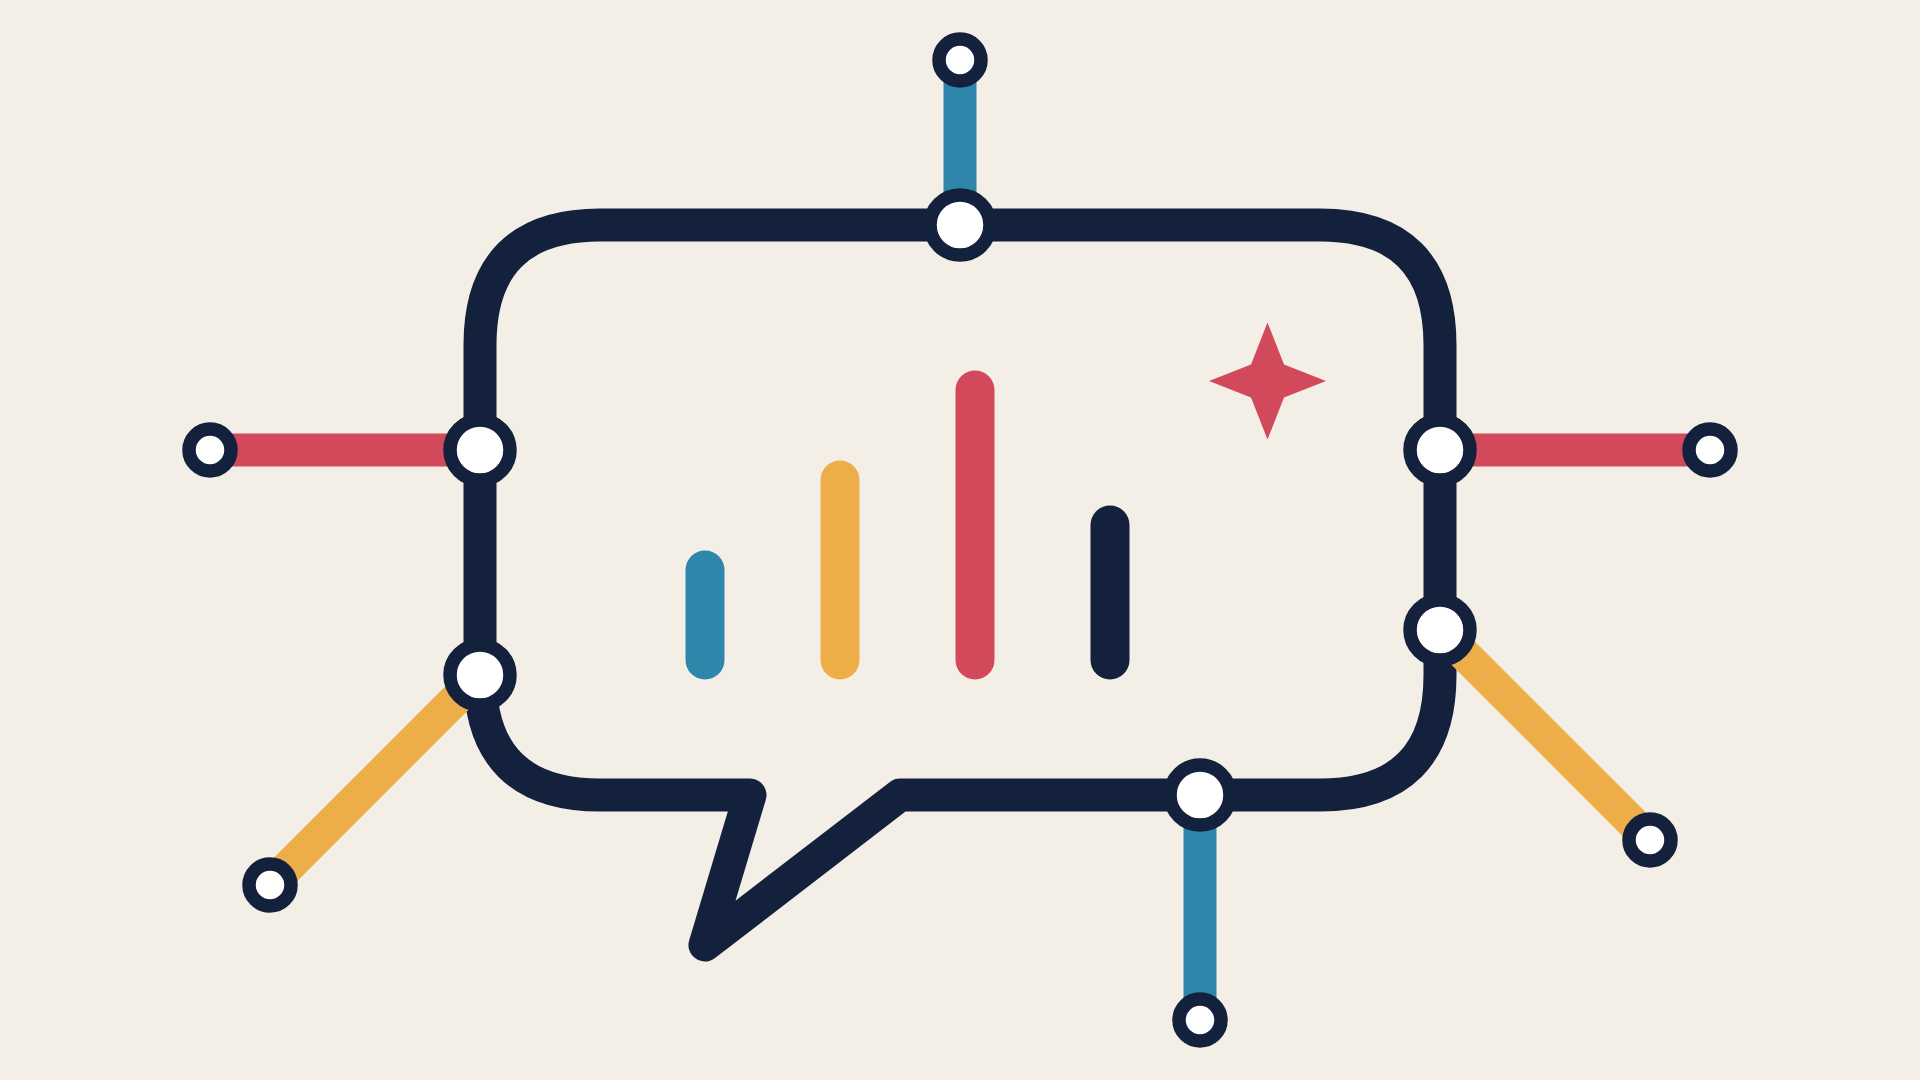
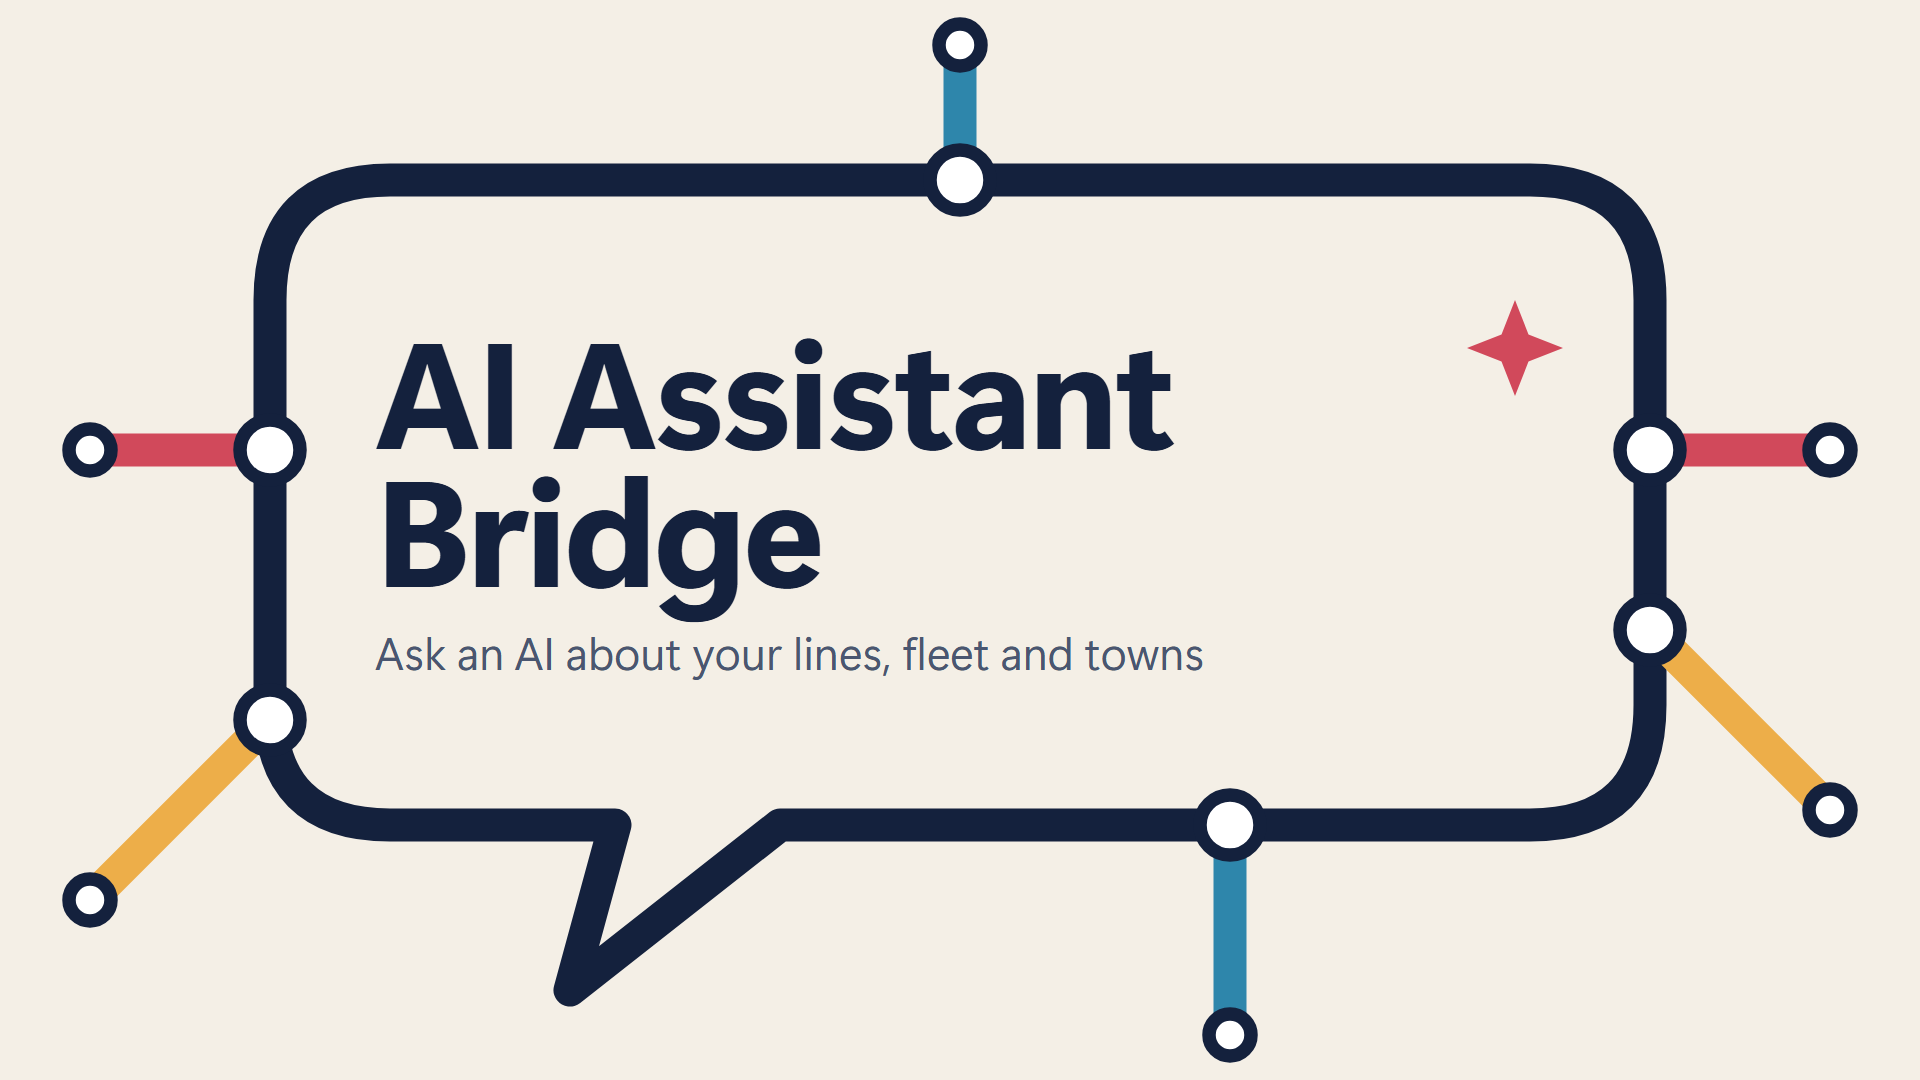
Cover with the mod name and tagline, without the game name, at 1920x1080

Changed region(s): [[0.0312, 0.1222, 0.9688, 1.0], [0.4688, 0.0, 0.5312, 0.0917]]

diff --git a/docs/cover.html b/docs/cover.html
@@ -1,22 +1,25 @@
-<!doctype html><html><head><meta charset="utf-8"><style>
-html,body{margin:0;width:1920px;height:1080px;overflow:hidden;background:#f4efe6}
+<!doctype html><html><head><meta charset="utf-8"><link rel="stylesheet" href="common.css"><style>
+body{background:#f4efe6;color:#14213d}
 svg{position:absolute;inset:0}
+.t{position:absolute;left:250px;top:200px}
+.k{color:#d1495b}
+h1{font-size:100px;margin-top:12px;color:#14213d}
+.sub{margin-top:18px;font-size:30px;color:#4a5670}
 </style></head><body>
-<svg width="1920" height="1080" viewBox="0 0 1280 720">
+<svg width="1280" height="720" viewBox="0 0 1280 720">
  <g fill="none" stroke-linecap="round" stroke-linejoin="round" stroke-width="22">
-  <path d="M400 150 H880 Q960 150 960 230 V450 Q960 530 880 530 H600 L470 630 L500 530 H400 Q320 530 320 450 V230 Q320 150 400 150" stroke="#14213d"/>
-  <path d="M140 300 H320" stroke="#d1495b"/><path d="M960 300 H1140" stroke="#d1495b"/>
-  <path d="M640 40 V150" stroke="#2e86ab"/><path d="M800 530 V680" stroke="#2e86ab"/>
-  <path d="M960 420 L1100 560" stroke="#edae49"/><path d="M180 590 L320 450" stroke="#edae49"/>
-  <!-- data bars inside the bubble -->
-  <g stroke-width="26">
-   <path d="M470 440 V380" stroke="#2e86ab"/><path d="M560 440 V320" stroke="#edae49"/><path d="M650 440 V260" stroke="#d1495b"/><path d="M740 440 V350" stroke="#14213d"/>
-  </g>
+  <!-- speech bubble drawn as metro lines -->
+  <path d="M260 120 H1020 Q1100 120 1100 200 V470 Q1100 550 1020 550 H520 L380 660 L410 550 H260 Q180 550 180 470 V200 Q180 120 260 120" stroke="#14213d"/>
+  <path d="M60 300 H180" stroke="#d1495b"/><path d="M1100 300 H1220" stroke="#d1495b"/>
+  <path d="M640 30 V120" stroke="#2e86ab"/><path d="M820 550 V690" stroke="#2e86ab"/>
+  <path d="M1100 420 L1220 540" stroke="#edae49"/><path d="M60 600 L180 480" stroke="#edae49"/>
  </g>
  <g fill="#fff" stroke="#14213d" stroke-width="9">
-  <circle cx="320" cy="300" r="20"/><circle cx="960" cy="300" r="20"/><circle cx="640" cy="150" r="20"/>
-  <circle cx="800" cy="530" r="20"/><circle cx="960" cy="420" r="20"/><circle cx="320" cy="450" r="20"/>
-  <circle cx="140" cy="300" r="14"/><circle cx="1140" cy="300" r="14"/><circle cx="640" cy="40" r="14"/><circle cx="1100" cy="560" r="14"/><circle cx="180" cy="590" r="14"/><circle cx="800" cy="680" r="14"/>
+  <circle cx="180" cy="300" r="20"/><circle cx="1100" cy="300" r="20"/><circle cx="640" cy="120" r="20"/>
+  <circle cx="820" cy="550" r="20"/><circle cx="1100" cy="420" r="20"/><circle cx="180" cy="480" r="20"/>
+  <circle cx="60" cy="300" r="14"/><circle cx="1220" cy="300" r="14"/><circle cx="640" cy="30" r="14"/><circle cx="1220" cy="540" r="14"/><circle cx="60" cy="600" r="14"/><circle cx="820" cy="690" r="14"/>
  </g>
- <path d="M845 215 l11 28 28 11 -28 11 -11 28 -11 -28 -28 -11 28 -11z" fill="#d1495b"/>
-</svg></body></html>
+ <path d="M1010 200 l9 23 23 9 -23 9 -9 23 -9 -23 -23 -9 23 -9z" fill="#d1495b"/>
+</svg>
+<div class="t"><h1>AI Assistant<br>Bridge</h1><div class="sub">Ask an AI about your lines, fleet and towns</div></div>
+</body></html>
